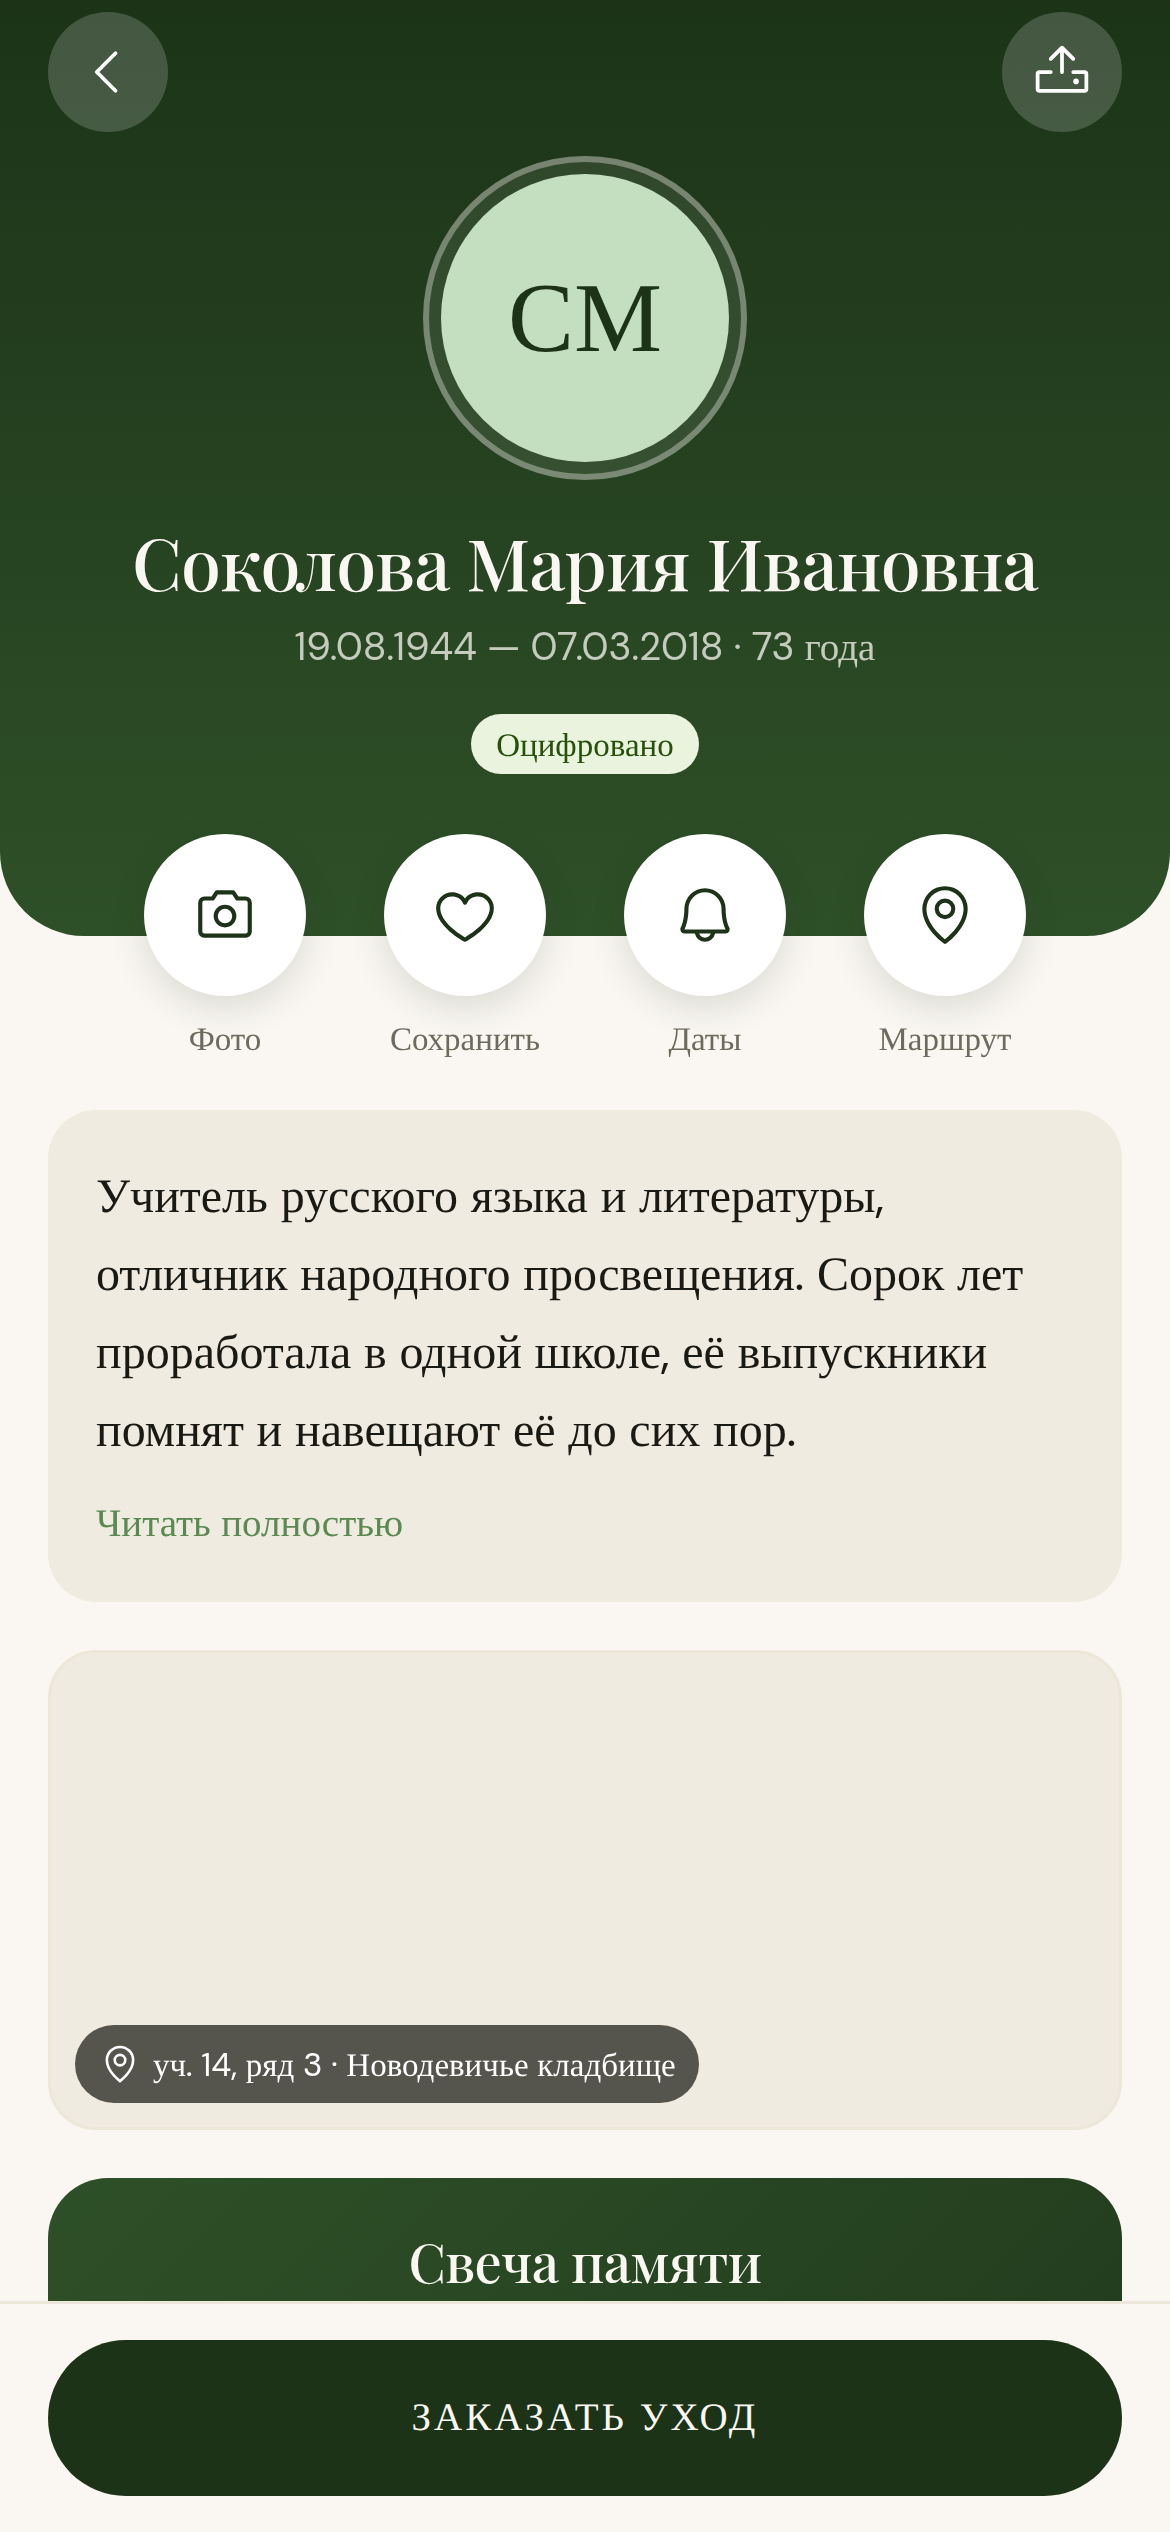
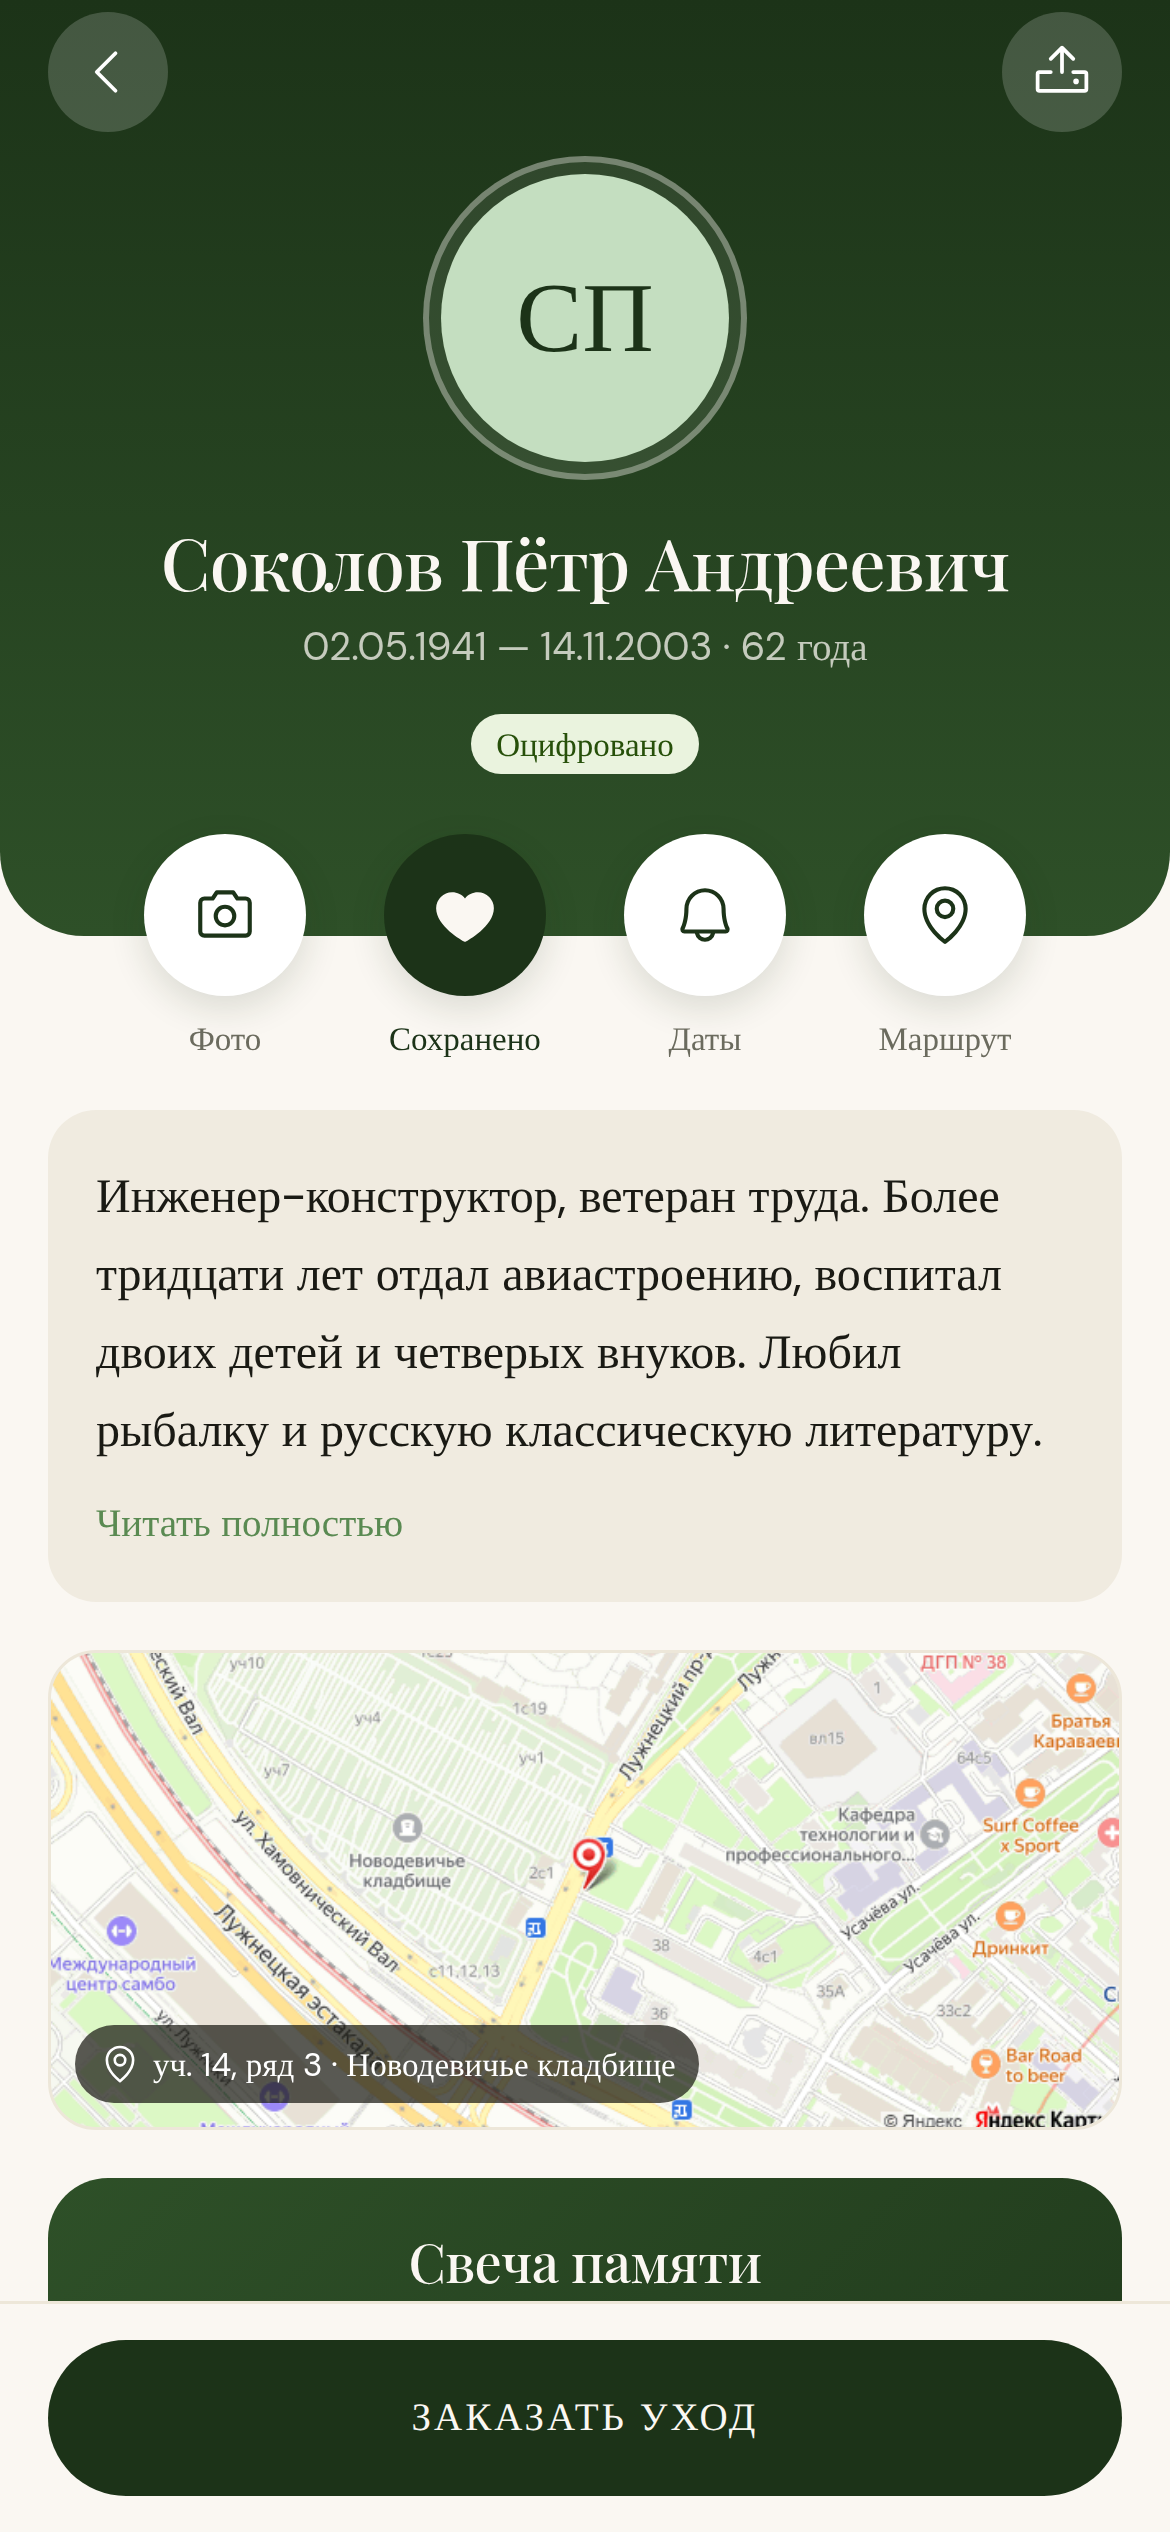
docs: карточка памяти переснята с картой участка
На прошлых кадрах вместо карты был серый прямоугольник: снимающий браузер
не мог достучаться до плиток Яндекса. Само приложение работает — ключ
Static API отдаёт картинку, на телефоне карта видна всегда.

Claude-Session: https://claude.ai/code/session_014ztYDLnKQbtcYB3csCB1fM

diff --git a/SUMMARY.md b/SUMMARY.md
@@ -230,6 +230,9 @@ Expo и приглашение в организацию (роль Viewer).
 избранное были добавлены три демо-персоны; заказы намеренно не создавались,
 чтобы не искажать отчётность.
 
+Карта на карточке памяти — статичная плитка Яндекс.Карт с меткой участка,
+тап открывает Яндекс.Карты. Ключ клиентский, лежит в `MapPreview.tsx`.
+
 **Данные кладбища для проверки:** `docs/cemetery/cemetery-plan.pdf` —
 план на 5 листах A3, который можно показать заказчику или администрации
 кладбища.
